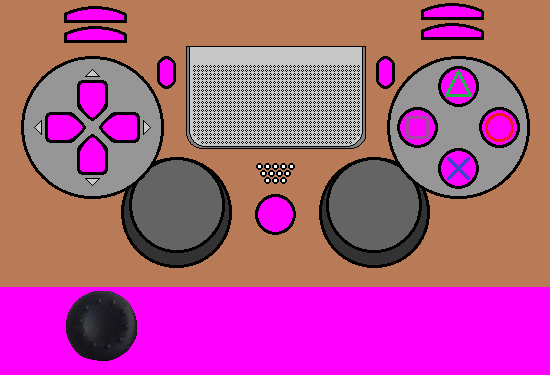
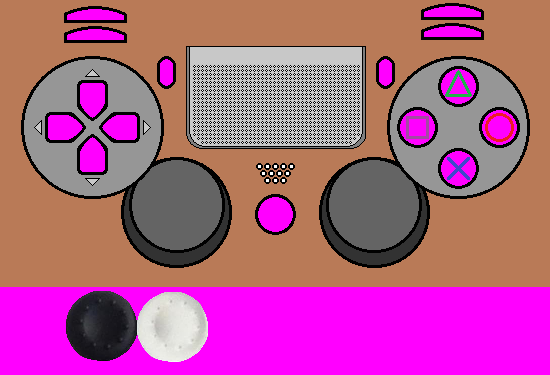
Fixes & Updates
- Added a key (*) for hide/show infos.
- Fixed few bugs

Changed region(s): [[0.2473, 0.7627, 0.4018, 0.968]]

diff --git a/src/application/JoyInfo.java b/src/application/JoyInfo.java
@@ -1,5 +1,8 @@
 package application;
 
+import java.awt.Point;
+import java.awt.Rectangle;
+
 import com.github.strikerx3.jxinput.XInputAxes;
 import com.github.strikerx3.jxinput.XInputButtons;
 import com.github.strikerx3.jxinput.XInputComponents;
@@ -8,7 +11,6 @@ import com.github.strikerx3.jxinput.enums.XInputButton;
 import com.github.strikerx3.jxinput.listener.SimpleXInputDeviceListener;
 import com.github.strikerx3.jxinput.listener.XInputDeviceListener;
 
-import gameutil.GameTools;
 import gui.util.CanvasUtils;
 import gui.util.ImageUtils;
 import javafx.event.EventHandler;
@@ -23,7 +25,6 @@ import javafx.scene.input.MouseEvent;
 import javafx.scene.paint.Color;
 import javafx.scene.paint.Paint;
 import javafx.stage.Stage;
-import objmoveutils.Position;
 import util.Misc;
 
 public class JoyInfo {
@@ -42,6 +43,7 @@ public class JoyInfo {
 	private int joyID;
 	private long bpsCTime;
 	private boolean resized;
+	private boolean hideInfos;
 	private boolean close;
 	
 	public JoyInfo(Stage stage, XInputDevice14 joystick, int joyID) {
@@ -49,13 +51,14 @@ public class JoyInfo {
 		this.joyID = joyID;
 		loadJoystickEvents();
 		close = false;
+		hideInfos = false;
 		bps = 0;
 		bps2 = 0;
 		maxBps = 0;
 		bpsCTime = System.currentTimeMillis();
 		mainStage = stage;
 		root = new Group();
-		joyImage = ImageUtils.removeBgColor(new Image("joystick.png"), (Color)Paint.valueOf("#FF00FF"));
+		joyImage = ImageUtils.removeBgColor(new Image("joystick.png"), (Color)Paint.valueOf("#FF00FF")); 
 		mainCanvas = new Canvas(joyImage.getWidth(),joyImage.getHeight() - 55);
 		mainCanvas.getGraphicsContext2D().setEffect(new BoxBlur(1, 1, 0));
 		drawCanvas = new Canvas(joyImage.getWidth(),joyImage.getHeight() - 55);
@@ -68,6 +71,8 @@ public class JoyInfo {
 		mainStage.setResizable(false);
 		mainStage.setScene(mainScene);
 		mainScene.setOnKeyPressed(event -> {
+			if (event.getCode() == KeyCode.MULTIPLY)
+				hideInfos = !hideInfos; 
 			if (event.getCode() == KeyCode.SPACE)
 				Main.reallign();
 			if (event.getCode() == KeyCode.ESCAPE)
@@ -104,9 +109,9 @@ public class JoyInfo {
 			public void handle(MouseEvent event) {
 				int x = (int)(event.getX() / Main.getZoom());
 				int y = (int)(event.getY() / Main.getZoom());
-				if (Position.coordIsInsideOfARectangle(x, y, 15, 275, 100, 20))
+				if (new Rectangle(15, 275, 100, 20).contains(new Point(x, y)))
 					joystick.setVibration(65535, 0);
-				if (Position.coordIsInsideOfARectangle(x, y, drawCanvas.getWidth() - 115, 275, 100, 20))
+				if (new Rectangle((int)drawCanvas.getWidth() - 115, 275, 100, 20).contains(new Point(x, y)))
 					joystick.setVibration(0, 65535);
 			}
 		});
@@ -137,10 +142,13 @@ public class JoyInfo {
 	}
 
 	private void mainLoop() {
+		int incy = hideInfos ? 25 : 0;
 		drawGC.setFill(Color.BLACK);
-		drawGC.fillRect(0,  0, (int)mainCanvas.getWidth(), (int)mainCanvas.getHeight());
+		drawGC.fillRect(0, 0, (int)drawCanvas.getWidth(), (int)drawCanvas.getHeight());
 		drawGC.setFill(Paint.valueOf("#B97A57"));
-		drawGC.fillRect(0,  270, (int)mainCanvas.getWidth(), (int)mainCanvas.getHeight() - 270);
+		if (hideInfos)
+			drawGC.fillRect(0, 0, (int)drawCanvas.getWidth(), incy);
+		drawGC.fillRect(0, 270, (int)drawCanvas.getWidth(), (int)drawCanvas.getHeight() - 270);
 		drawGC.setLineWidth(3);
 		joystick.poll();
 		XInputComponents components = joystick.getComponents();
@@ -148,70 +156,72 @@ public class JoyInfo {
 		XInputAxes axes = components.getAxes();
 		// DPADS
 		drawGC.setFill(buttons.up ? Color.GREEN : Color.BLACK);
-		drawPolygon(drawGC, 76, 78, 108, 78, 108, 106, 92, 127, 76, 106);
+		drawPolygon(drawGC, 76, incy + 78, 108, incy + 78, 108, incy + 106, 92, incy + 127, 76, incy + 106);
 		drawGC.setFill(buttons.right ? Color.GREEN : Color.BLACK);
-		drawPolygon(drawGC, 140, 112, 112, 112, 92, 127, 112, 142, 140, 142);
+		drawPolygon(drawGC, 140, incy + 112, 112, incy + 112, 92, incy + 127, 112, incy + 142, 140, incy + 142);
 		drawGC.setFill(buttons.down ? Color.GREEN : Color.BLACK);
-		drawPolygon(drawGC, 76, 174, 76, 146, 92, 127, 108, 146, 108, 174);
+		drawPolygon(drawGC, 76, incy + 174, 76, incy + 146, 92, incy + 127, 108, incy + 146, 108, incy + 174);
 		drawGC.setFill(buttons.left ? Color.GREEN : Color.BLACK);
-		drawPolygon(drawGC, 44, 110, 70, 110, 92, 127, 70, 142, 44, 142);
+		drawPolygon(drawGC, 44, incy + 110, 70, incy + 110, 92, incy + 127, 70, incy + 142, 44, incy + 142);
 		// BACK and SELECT
 		drawGC.setFill(buttons.back ? Color.GREEN : Color.BLACK);
-		drawGC.fillRect(157, 56, 19, 33);
+		drawGC.fillRect(157, incy + 56, 19, 33);
 		drawGC.setFill(buttons.start ? Color.GREEN : Color.BLACK);
-		drawGC.fillRect(376, 56, 19, 33);
+		drawGC.fillRect(376, incy + 56, 19, 33);
 		// PS (If available)
 		if (XInputDevice14.isGuideButtonSupported()) {
 			drawGC.setFill(buttons.guide ? Color.GREEN : Color.BLACK);
-			drawGC.fillRect(255, 194, 41, 41);
+			drawGC.fillRect(255, incy + 194, 41, 41);
 		}
 		// L/R SHOULDERS
 		drawGC.setFill(buttons.lShoulder ? Color.GREEN : Color.BLACK);
-		drawGC.fillRect(64, 26, 63, 17);
+		drawGC.fillRect(64, incy + 26, 63, 17);
 		drawGC.setFill(buttons.rShoulder ? Color.GREEN : Color.BLACK);
-		drawGC.fillRect(421, 26, 63, 17);
+		drawGC.fillRect(421, incy + 26, 63, 17);
 		// L/R TRIGGERS
 		drawGC.setFill(axes.lt > 0 ? Color.GREEN : Color.BLACK);
-		drawGC.fillRect(66, 6, 61 * axes.lt, 17);
+		drawGC.fillRect(66, incy + 6, 61 * axes.lt, 17);
 		drawGC.setFill(axes.rt > 0 ? Color.GREEN : Color.BLACK);
-		drawGC.fillRect(423, 6, 61 * axes.rt, 17);
+		drawGC.fillRect(423, incy + 6, 61 * axes.rt, 17);
 		// X, CIRCLE, SQUARE and TRIANGLE
 		drawGC.setFill(buttons.a ? Color.GREEN : Color.BLACK);
-		drawGC.fillRect(438, 148, 41, 41);
+		drawGC.fillRect(438, incy + 148, 41, 41);
 		drawGC.setFill(buttons.b ? Color.GREEN : Color.BLACK);
-		drawGC.fillRect(479, 107, 41, 41);
+		drawGC.fillRect(479, incy + 107, 41, 41);
 		drawGC.setFill(buttons.x ? Color.GREEN : Color.BLACK);
-		drawGC.fillRect(397, 107, 41, 41);
+		drawGC.fillRect(397, incy + 107, 41, 41);
 		drawGC.setFill(buttons.y ? Color.GREEN : Color.BLACK);
-		drawGC.fillRect(438, 66, 41, 41);
+		drawGC.fillRect(438, incy + 66, 41, 41);
 
-		drawGC.drawImage(joyImage, 0, 0, 550, 275, 0, 0, 550, 275);
+		drawGC.drawImage(joyImage, 0, 0, 550, 275, 0, incy, 550, 275);
 		// X/Y AXES
-		drawGC.drawImage(joyImage, 66, 291, 72, 72, 141 + axes.lx * 28, 170 - axes.ly * 28, 72, 72);
-		drawGC.drawImage(joyImage, 66, 291, 72, 72, 339 + axes.rx * 28, 170 - axes.ry * 28, 72, 72);
+		drawGC.drawImage(buttons.lThumb ? ImageUtils.tintImage(joyImage, Color.GREEN, 0.5f) : joyImage, 66, 291, 71, 72, 141 + axes.lx * 28, incy + 170 - axes.ly * 28, 72, 72);
+		drawGC.drawImage(buttons.rThumb ? ImageUtils.tintImage(joyImage, Color.GREEN, 0.5f) : joyImage, 66, 291, 71, 72, 339 + axes.rx * 28, incy + 170 - axes.ry * 28, 72, 72);
 		// X/Y AXES and L/R TRIGGERS VALUES
-		drawText(String.format("X: %.3f\nY: %.3f", axes.lx, axes.ly), Color.BLACK, 155, 290);
-		drawText(String.format("X: %.3f\nY: %.3f", axes.rx, axes.ry), Color.BLACK, 353, 290);
-		drawText(String.format("Value: %.3f", axes.lt), Color.BLACK, 135, 20);
-		drawText(String.format("Value: %.3f", axes.rt), Color.BLACK, 350, 20);
-		// Test motors
-		drawGC.setFill(Color.DARKOLIVEGREEN);
-		drawGC.fillRect(15, 275, 100, 20);
-		drawGC.setStroke(Color.BLACK);
-		drawGC.strokeRect(15, 275, 100, 20);
-		drawText("Test left motor", Color.BLACK, 27, 289);
-		drawGC.setFill(Color.DARKOLIVEGREEN);
-		drawGC.fillRect(drawCanvas.getWidth() - 115, 275, 100, 20);
-		drawGC.setStroke(Color.BLACK);
-		drawGC.strokeRect(drawCanvas.getWidth() - 115, 275, 100, 20);
-		drawText("Test right motor", Color.BLACK, (int)drawCanvas.getWidth() - 110, 289);
+		if (!hideInfos) {
+			drawText(String.format("X: %.3f\nY: %.3f", axes.lx, axes.ly), Color.BLACK, 155, 290);
+			drawText(String.format("X: %.3f\nY: %.3f", axes.rx, axes.ry), Color.BLACK, 353, 290);
+			drawText(String.format("Value: %.3f", axes.lt), Color.BLACK, 135, 20);
+			drawText(String.format("Value: %.3f", axes.rt), Color.BLACK, 350, 20);
+			// Test motors
+			drawGC.setFill(Color.DARKOLIVEGREEN);
+			drawGC.fillRect(15, 275, 100, 20);
+			drawGC.setStroke(Color.BLACK);
+			drawGC.strokeRect(15, 275, 100, 20);
+			drawText("Test left motor", Color.BLACK, 27, 289);
+			drawGC.setFill(Color.DARKOLIVEGREEN);
+			drawGC.fillRect(drawCanvas.getWidth() - 115, 275, 100, 20);
+			drawGC.setStroke(Color.BLACK);
+			drawGC.strokeRect(drawCanvas.getWidth() - 115, 275, 100, 20);
+			drawText("Test right motor", Color.BLACK, (int)drawCanvas.getWidth() - 110, 289);
+		}
 
 		if (!resized) {
 			resized = true;
 			mainCanvas.setWidth(drawCanvas.getWidth() * Main.getZoom());
 			mainCanvas.setHeight(drawCanvas.getHeight() * Main.getZoom());
-			mainStage.setWidth(drawCanvas.getWidth() * Main.getZoom() + 10);
-			mainStage.setHeight(drawCanvas.getHeight() * Main.getZoom() + 20);
+			mainStage.setWidth(mainCanvas.getWidth() + 14);
+			mainStage.setHeight(mainCanvas.getHeight() + 36);
 		}
 		
 		CanvasUtils.copyCanvas(drawCanvas, mainCanvas);
@@ -227,7 +237,7 @@ public class JoyInfo {
 	 	Misc.sleep(1);
 	 	
 	 	if (!close)
-	 		GameTools.callMethodAgain(e -> mainLoop());
+	 		Misc.runLater(() -> mainLoop());
 	 	else
 	 		mainStage.close();
 	}

diff --git a/src/application/Main.java b/src/application/Main.java
@@ -65,7 +65,7 @@ public class Main extends Application {
 		{ return zoom; }
 
 	public static void decreaseZoom() {
-		if (zoom > 0.25f) {
+		if (zoom > 0.5f) {
 			zoom /= 2;
 			for (JoyInfo j : joyInfos)
 				j.setResized(false);
@@ -74,7 +74,8 @@ public class Main extends Application {
 	}
 
 	public static void increaseZoom() {
-		zoom *= 2;
+		if (zoom < 2)
+			zoom *= 2;
 		for (JoyInfo j : joyInfos)
 			j.setResized(false);
 		setMaxWindowSize();
